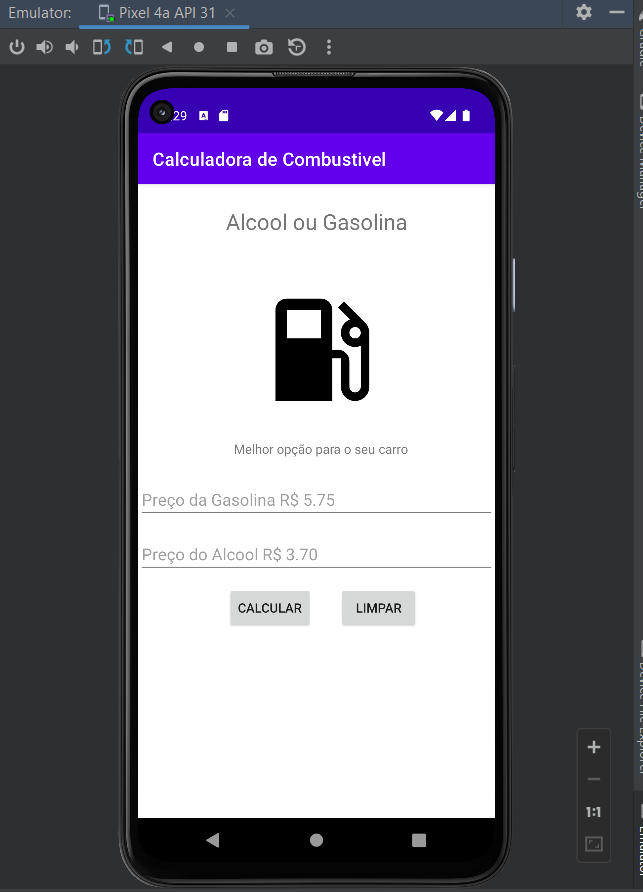
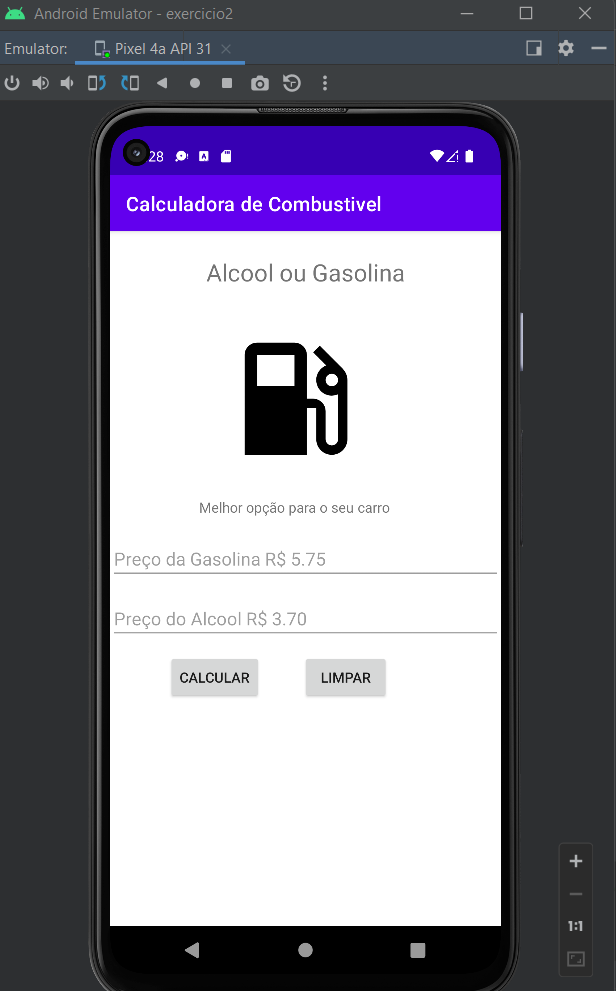
ajustes finos

diff --git a/README.md b/README.md
@@ -8,7 +8,12 @@ VersionName: "1"
 # Introdução
 Calculando se vale a pena colocar Gasolina ou Álcool
 
-![Aplicativo 1](img_readme/v1.png)
+| Tela 1     | Tela 2     |  
+| ------------- | ------------- |
+|![Aplicativo 1](img_readme/v1.png)|![Aplicativo 1](img_readme/v1.1.png)|
+|![Aplicativo 1](img_readme/v1.2.png)|![Aplicativo 1](img_readme/v1.3.png)|
+
+
 
 
 # Authors
